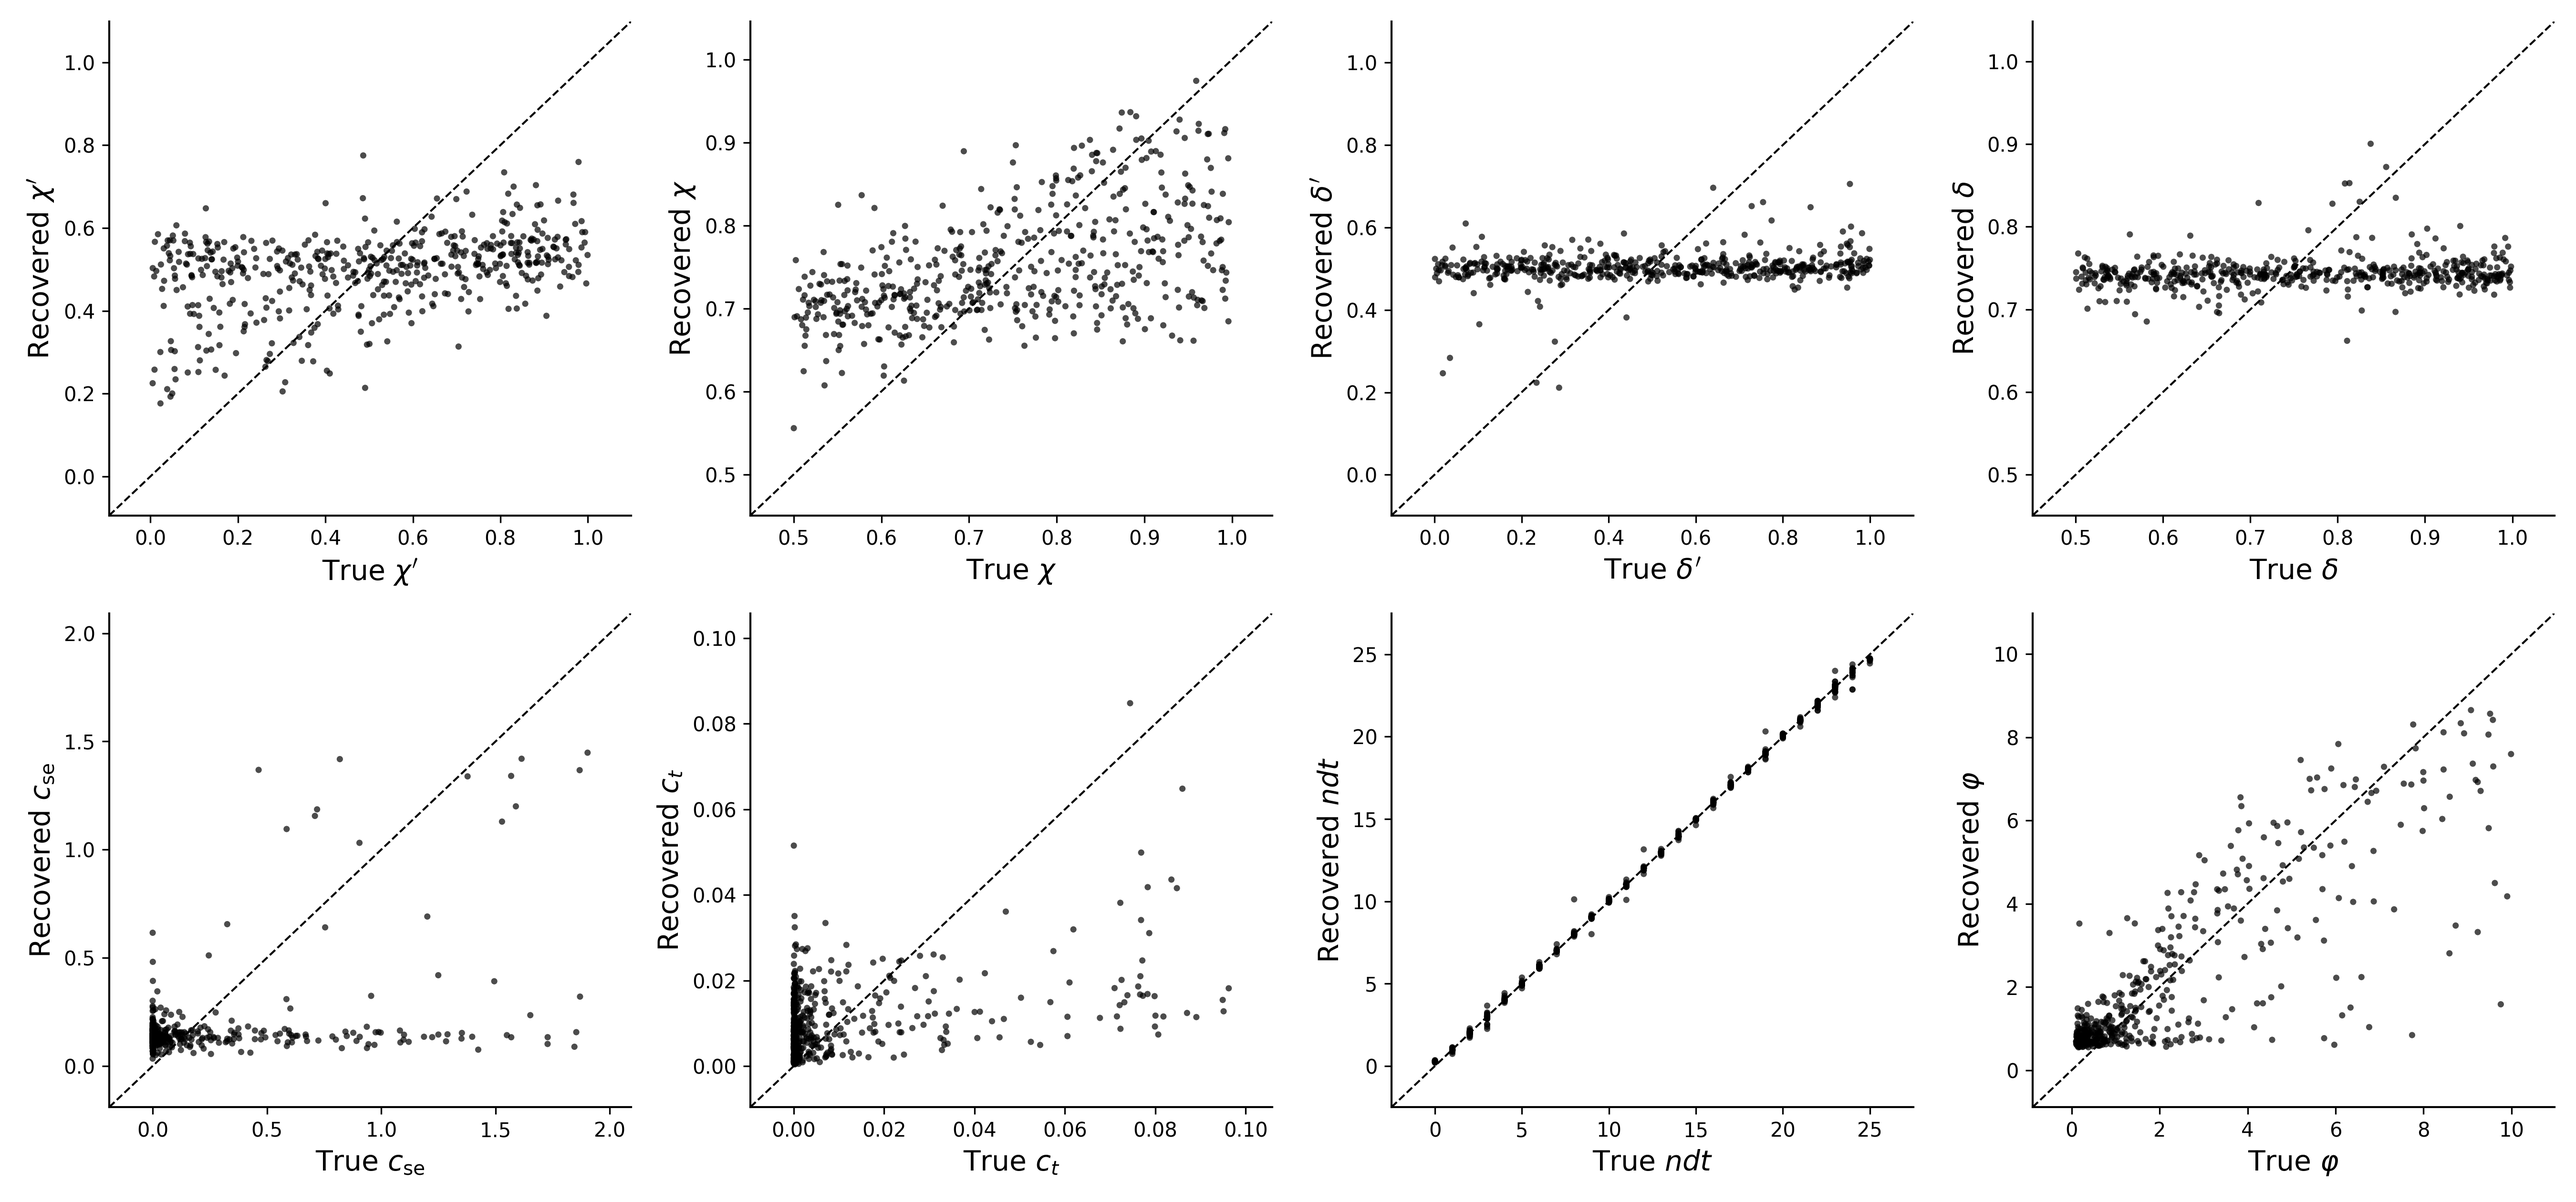
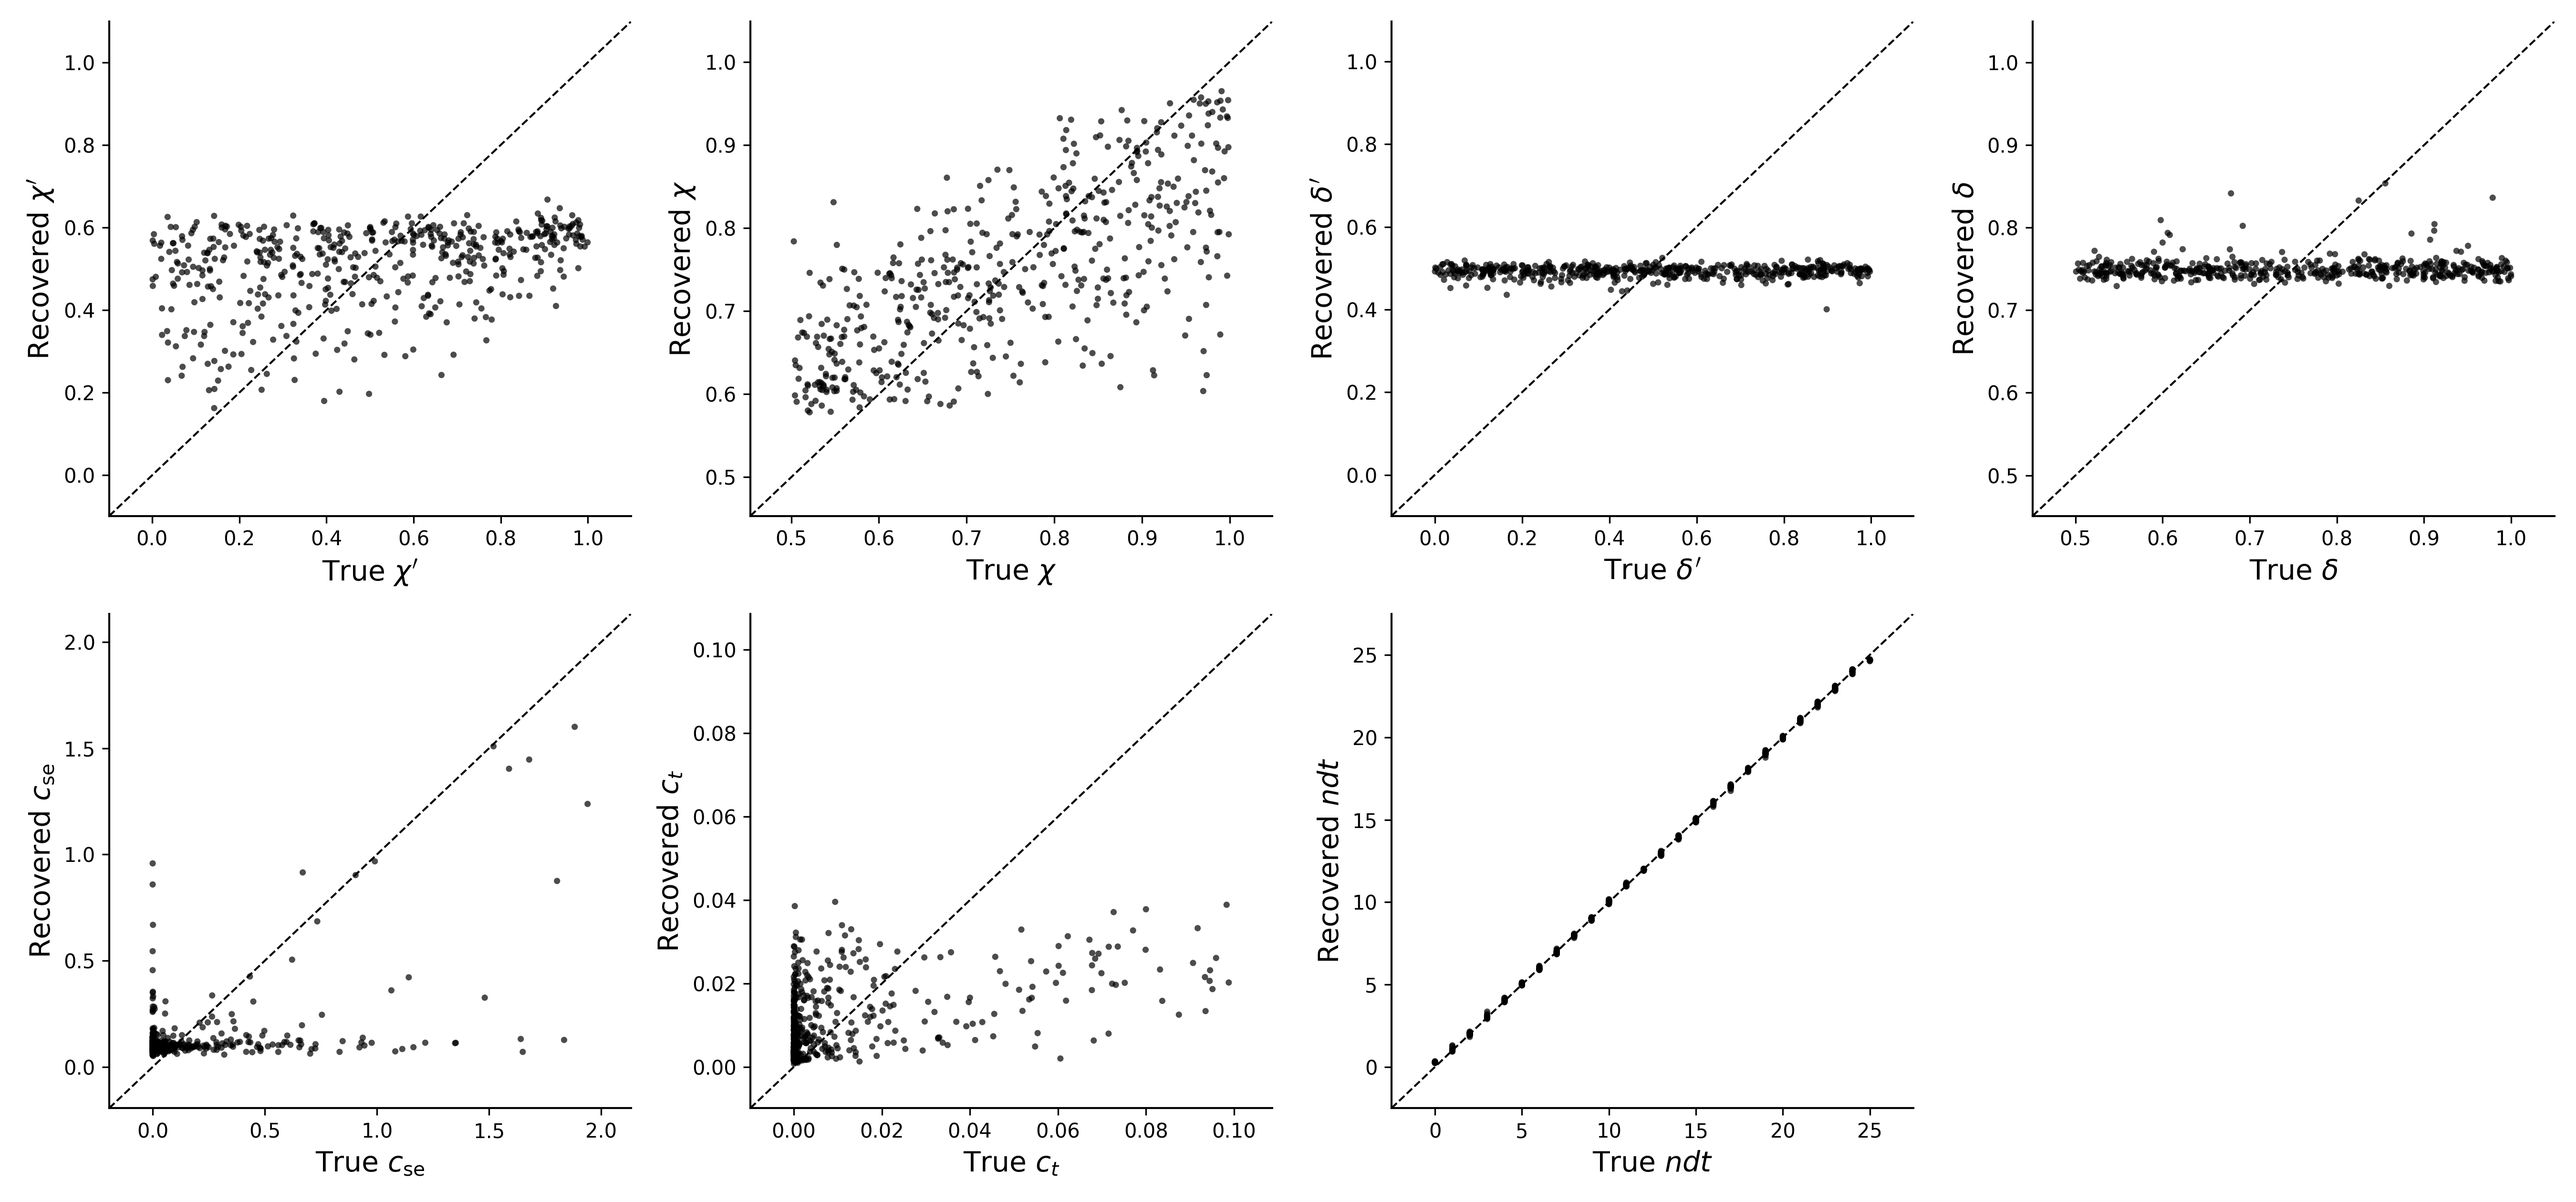
up

diff --git a/analysis/recovery_ana_v2.py b/analysis/recovery_ana_v2.py
@@ -14,7 +14,7 @@ BASE_DIR = Path('/kyb/agpd/wwang/data/')
 OUT_DIR = Path('/kyb/agpd/wwang/sst-pomdp/outputs/')
 
 # Inputs
-RECOVERY_CSV = Path("/kyb/agpd/wwang/data/res_832861/recovery_details.csv")
+RECOVERY_CSV = Path("/kyb/agpd/wwang/data/res_833083/recovery_details.csv")
 
 # Output
 OUTPUT_PLOT = OUT_DIR / "param_recovery_v2.png"
